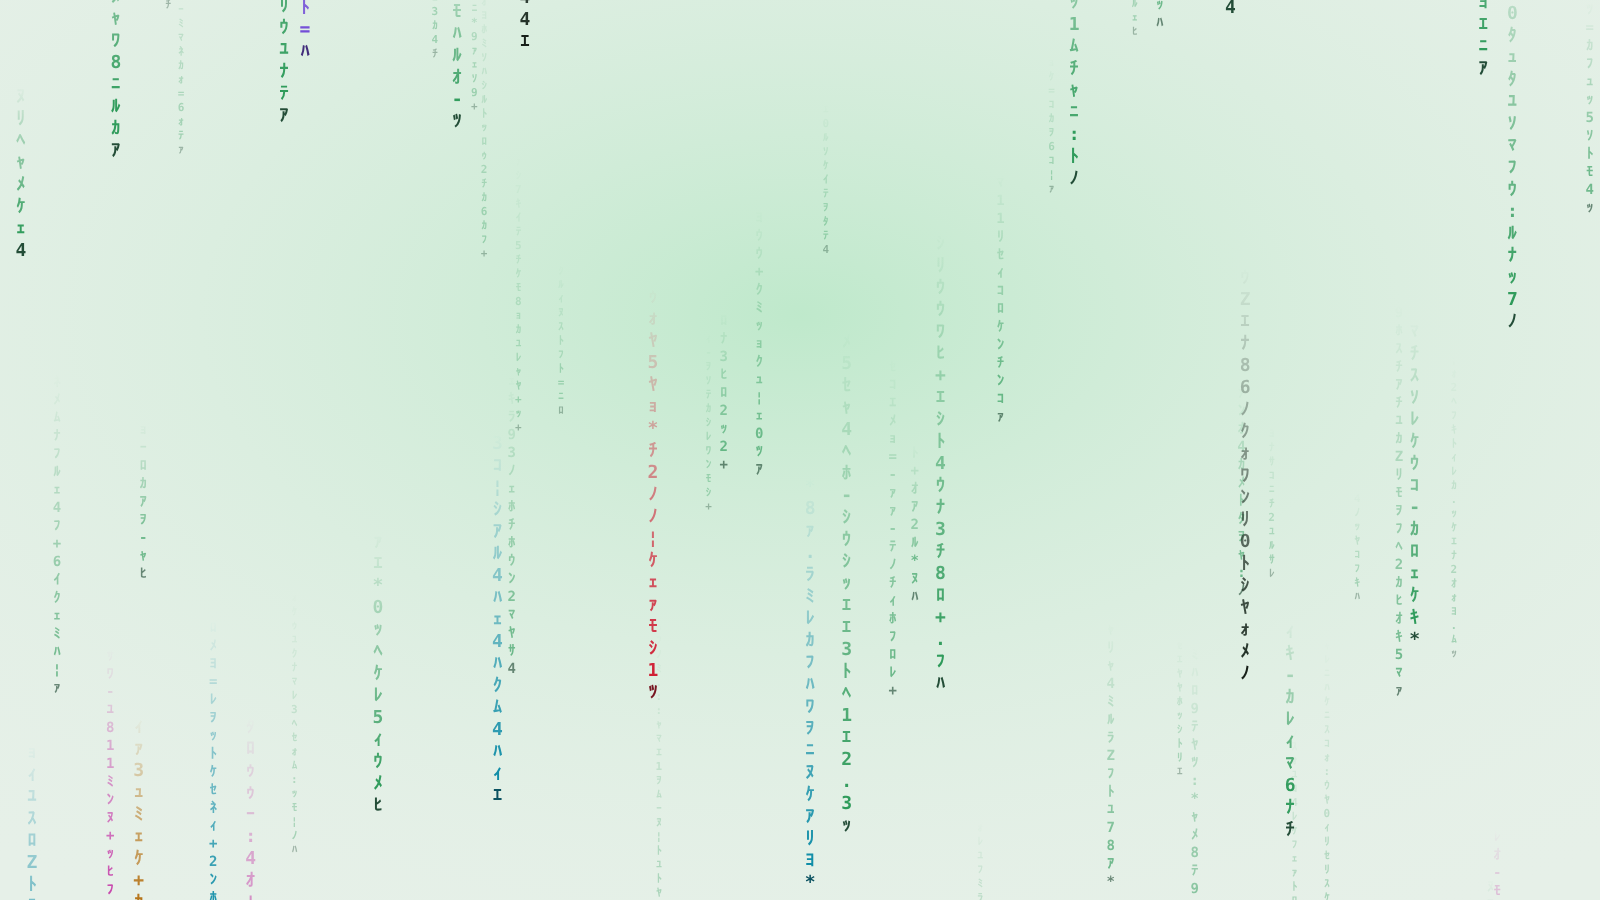
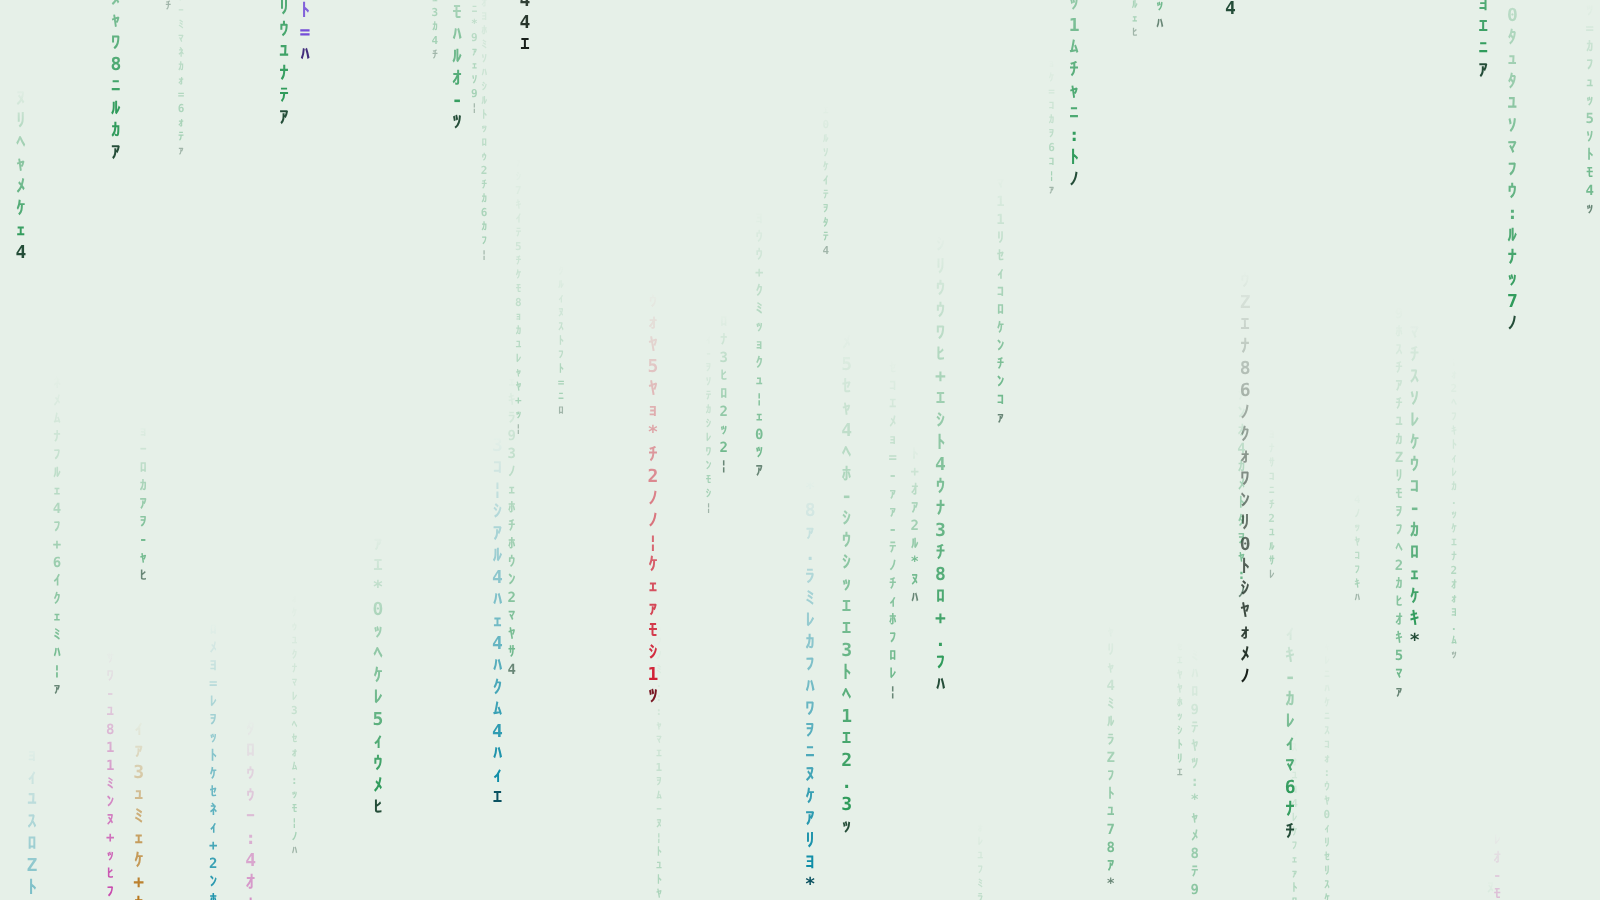
Matrix Rain 0.6.0: only the falling letters, no green light behind
The radial green light that came up behind the rain while Claude worked
(and its pale green wash in the light look) is gone: the falling letters
are the whole scene, on a plain ground. Idle, working, waiting and the
storm still differ by the rain's colour, brightness, speed and number of
streams.

The README pictures are drawn again from the scene as it is now, the
dark ones included (they showed the light, and live.svg was several
versions behind).

Claude-Session: https://claude.ai/code/session_01Ea9xU1HgdMp6WFxwKms7qS

diff --git a/themes/matrix-rain/hooks/scene.ts b/themes/matrix-rain/hooks/scene.ts
@@ -368,21 +368,18 @@ const burst = (b: Burst, now: number, look: Look) => {
   return out
 }
 
-// Idle is muted: dimmer, grey rain and no green light behind it. A turn brings
-// the green and the light up quickly; when it ends they fade out slowly.
-// Waiting, the rain stays green with the light half up.
+// Idle is muted: dimmer, grey rain. A turn brings the green up quickly; when
+// it ends it fades out slowly. Waiting, the rain stays green, a little dimmer.
+// Nothing is drawn behind the rain but the plain ground: the letters are the
+// whole scene.
 const OPACITY: Record<Mood, number> = { idle: 0.55, wait: 0.8, busy: 1, storm: 1 }
-const GLOW: Record<Mood, number> = { idle: 0, wait: 0.5, busy: 1, storm: 1 }
 const FADE: Record<Mood, number> = { idle: 3, wait: 2, busy: 1.2, storm: 1.2 }
 
 // How the rain is painted in each look. Dark: phosphor green on black, each
-// stream's head the brightest letter, a green light behind. Light: deep green
-// ink on pale paper, each head the darkest letter, a soft green wash behind.
+// stream's head the brightest letter. Light: deep green ink on pale paper,
+// each head the darkest letter.
 type Look = {
   ground: string
-  // The light behind the rain while Claude works: its colour at the centre,
-  // and at the edge, where it has faded out.
-  glow: [string, string, string]
   weight: number
   // A grey with a trace of the green in it while idle, so it still reads as
   // the same rain; green while Claude works.
@@ -415,7 +412,6 @@ const PAPER: Record<string, string> = {
 const LOOKS: Record<Scheme, Look> = {
   dark: {
     ground: '#010603',
-    glow: ['#0a3a1c', '.5', '#000000'],
     weight: 500,
     body: moods('#93a89a', '#19ff6a'),
     head: moods('#dce6df', '#d2ffe0'),
@@ -424,7 +420,6 @@ const LOOKS: Record<Scheme, Look> = {
   },
   light: {
     ground: '#e6f0e8',
-    glow: ['#9fe3b4', '.55', '#e6f0e8'],
     // Dark letters on a light ground read thinner than glowing ones.
     weight: 600,
     body: moods('#62776a', '#0b8a3f'),
@@ -467,8 +462,6 @@ const LIGHT = LOOKS.light
 const LIGHT_RULES =
   `text{font-weight:${LIGHT.weight}}` +
   `rect[fill='${DARK.ground}']{fill:${LIGHT.ground}}` +
-  `#glow>stop{stop-color:${LIGHT.glow[2]}}` +
-  `#glow>stop:first-child{stop-color:${LIGHT.glow[0]};stop-opacity:${LIGHT.glow[1]}}` +
   `g[fill='url(#rain)']{fill:url(#rainL)}` +
   `text[fill='url(#rainTrail)']{fill:url(#rainTrailL)}` +
   `use[fill='url(#rainHead)']{fill:url(#rainHeadL)}`
@@ -527,11 +520,9 @@ ${follow ? `${follows(colors)}\n` : ''}</style>
 <defs>
 ${rainPaint(view, now, look)}${follow ? rainPaint(view, now, LIGHT, 'L') : ''}
 ${trails.join('\n')}
-<radialGradient id="glow" cx="50%" cy="35%" r="80%"><stop offset="0" stop-color="${look.glow[0]}" stop-opacity="${look.glow[1]}"/><stop offset="1" stop-color="${look.glow[2]}" stop-opacity="0"/></radialGradient>
 ${CELLS[view.mood]}
 </defs>
 <rect width="100%" height="100%" fill="${look.ground}"/>
-<rect width="100%" height="100%" fill="url(#glow)" opacity="${GLOW[view.mood]}">${ease(view, now, GLOW)}</rect>
 <g opacity="${OPACITY[view.mood]}">${ease(view, now, OPACITY)}${rain}</g>
 <g>${drawn}</g>
 </svg>`

diff --git a/themes/matrix-rain/tests/matrix-rain.test.tsx b/themes/matrix-rain/tests/matrix-rain.test.tsx
@@ -23,8 +23,8 @@ test('the backdrop is one slow Svg while idle', async ($, on) => {
   const svg = (await ui.find({ type: 'Svg' })) as any
   expect(svg).toBeDefined()
   expect(svg.props.alt).toMatch(/slowly/)
-  // Muted: the green light behind the rain is off.
-  expect(svg.props.source).toMatch(/fill="url\(#glow\)" opacity="0"/)
+  // Only the letters: no light behind the rain.
+  expect(svg.props.source).not.toMatch(/glow|radialGradient/)
   // The rain is grey while idle, through the shared paint every stream uses.
   expect(svg.props.source).toMatch(/<linearGradient id="rain" [^>]*><stop offset="0" stop-color="#93a89a"/)
   expect(svg.props.source).toMatch(/fill="url\(#rain\)"/)
@@ -105,7 +105,9 @@ test('a turn makes it pour, and a tool call drops streams in its colour', async 
   // The rain turns green as the turn starts.
   expect(source).toMatch(/attributeName="stop-color" from="#93a89a" to="#19ff6a"/)
   // The light comes up as the turn starts.
-  expect(source).toMatch(/fill="url\(#glow\)" opacity="1"><animate attributeName="opacity" from="0" to="1"/)
+  // The rain brightens; nothing lights up behind it.
+  expect(source).toMatch(/<g opacity="1"><animate attributeName="opacity" from="0.55" to="1"/)
+  expect(source).not.toMatch(/glow|radialGradient/)
   expect(source).toMatch(/#26e7ff/)
   // Working, the heads scramble fast again.
   expect(headCycles(source).length).toBe(14)
@@ -149,7 +151,7 @@ test('with the storm on, the rain follows the tokens the model writes', async ($
   expect(streams(light.source)).toBe(50)
   // Still green, with the light half up: a turn is running.
   expect(light.source).toMatch(/<linearGradient id="rain" [^>]*><stop offset="0" stop-color="#19ff6a"/)
-  expect(light.source).toMatch(/fill="url\(#glow\)" opacity="0.5"/)
+  expect(light.source).toMatch(/<g opacity="0.8">/)
 
   // The model writes again, at one model's usual pace: back to working.
   await write(700, 200)
@@ -291,12 +293,12 @@ test("follows Claude's appearance by default, and leaves Claude's own colours al
   expect(look).toEqual({ backdrop: { scene: 'matrix-rain', glass: { blur: 14, opacity: 0.84 } } })
   const { alt, source } = await svg()
   expect(alt).toBe('Green code drifting slowly down the screen')
-  // Drawn dark; in light mode the ground, the light behind, the rain and its
+  // Drawn dark; in light mode the ground, the rain and its
   // weight are repainted from the light look, its paint drawn beside the dark.
   expect(source).toMatch(/<rect width="100%" height="100%" fill="#010603"\/>/)
   const rules = lightRules(source)
   expect(rules).toContain("rect[fill='#010603']{fill:#e6f0e8}")
-  expect(rules).toContain('#glow>stop:first-child{stop-color:#9fe3b4;stop-opacity:.55}')
+  expect(rules).not.toMatch(/glow/)
   expect(rules).toContain("g[fill='url(#rain)']{fill:url(#rainL)}")
   expect(rules).toContain("text[fill='url(#rainTrail)']{fill:url(#rainTrailL)}")
   expect(rules).toContain("use[fill='url(#rainHead)']{fill:url(#rainHeadL)}")

diff --git a/themes/matrix-rain/README.md b/themes/matrix-rain/README.md
@@ -14,17 +14,17 @@ A theme for the Claude desktop app: green code raining down behind the conversat
 The pictures are the theme's own scene, rendered by `node tools/make-previews.mts`. In the app, the chat sits on a frosted panel down the middle, so the rain shows most in the margins.
 
 - **Idle:** muted. About fifty dim, grey streams drift down very slowly, in three depths (small and faint at the back, larger at the front), on plain black (pale paper in light mode).
-- **While Claude works:** the rain turns green, a green light comes up behind it, and it brightens and speeds up about fourteen times, with more streams joining from the top. When the reply ends, the extra streams finish their fall and the rain slows again, with no jump.
+- **While Claude works:** the rain turns green, brightens and speeds up about fourteen times, with more streams joining from the top. When the reply ends, the extra streams finish their fall and the rain slows again, with no jump.
 - **The storm** (on by default): while Claude works, the rain follows the tokens it writes, counted as they stream in from the main chat and from every subagent:
 
   | Level | When | Rain |
   | --- | --- | --- |
-  | Waiting | Claude has written almost nothing for a few seconds: a long command, a build, a job it waits on | Light: the fifty streams of idle, green, with the light half up, about three times as fast as idle |
+  | Waiting | Claude has written almost nothing for a few seconds: a long command, a build, a job it waits on | Light: the fifty streams of idle, green and a little dimmer, about three times as fast as idle |
   | Working | Claude writes at its usual pace | The fast green rain above: about eighty streams |
   | Storm | Claude writes a lot: two or more subagents at once, or a fast model writing a big file | About a hundred streams, a quarter faster than working |
 
   Only what Claude writes counts (its replies, its thinking, what it passes to tools, such as the code of an edit), not the conversation that goes with every request. Idle stays as it is. Each change is smooth: new streams join from the top, and streams that leave finish their fall. With `/matrix storm off`, a turn keeps the one working pace.
-- **Two looks, following Claude's appearance:** when you switch Claude between Light and Dark, the rain switches with it. Dark: phosphor green on black, each stream's head the brightest letter, a green light coming up behind while Claude works. Light: deep green ink on pale paper, each head the darkest letter, a soft green wash behind while Claude works. Everything else is the same in both: the levels, the storm, the changing letters, the tool calls and the chime. To keep one look whatever the mode, use `/matrix light` or `/matrix dark`.
+- **Two looks, following Claude's appearance:** when you switch Claude between Light and Dark, the rain switches with it. Dark: phosphor green on black, each stream's head the brightest letter. Light: deep green ink on pale paper, each head the darkest letter. Nothing lights up behind the rain: the falling letters are the whole scene. Everything else is the same in both: the levels, the storm, the changing letters, the tool calls and the chime. To keep one look whatever the mode, use `/matrix light` or `/matrix dark`.
 - **Letters change as they fall:** a few letters along each trail flicker to new glyphs, and each stream's bright head scrambles. They change at the rain's own pace: slowly while idle, fast while Claude works.
 - **Tool calls:** every tool call drops a handful of fast, bright streams in a colour for the kind of work:
 
